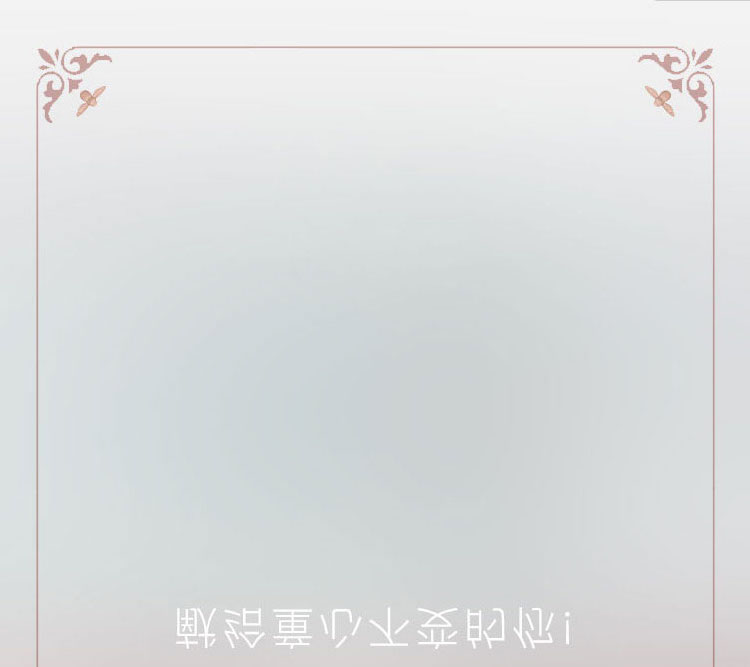
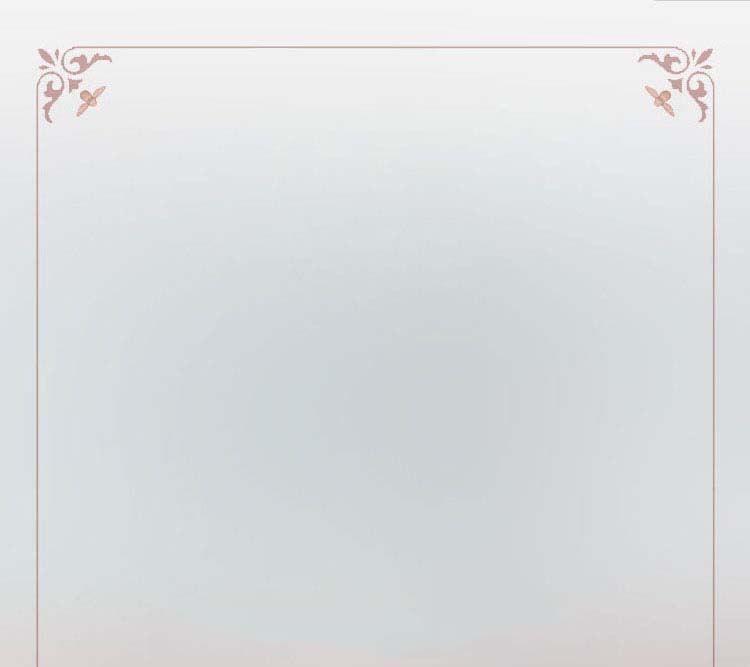
更新一个版本

Changed region(s): [[0.2147, 0.8996, 0.7667, 0.9895]]

diff --git a/src/components/loading.vue b/src/components/loading.vue
@@ -1,34 +1,41 @@
 <template>
-  <div id="load" class="loadPage">
+  <div id="load" class="loadPage" :class="{fly}">
     <div class="loadpage-container">
-      <div class="bg">
+      <div class="choose" style="background:url(./img/pr1/choose.jpg) center no-repeat;">
+        <div></div>
+      </div>
+      <div v-if="bgShow" class="bg">
         <div class="bg1-container">
-          <div class="bg1"></div>
+          <div class="bg1">
+            <em>妙趣横生的腕间花园</em>
+          </div>
         </div>
         <div class="bg1-container bg2">
           <div class="bg1">
             <div class="midd">
-              <div class="loadline">
-                <!-- 进渡条 -->
-                <div class="loading" v-if="!showBtn">
-                  <div class="light"><div :style="'width:'+Percentage+'%'"></div></div>
-                  <div class="loadbg homeImg" :style="'background:url(./img/FHome/loading.png) center no-repeat;background-size:auto 100%;'"></div>
-                  <div class="upFlower" :style="'background: url(./img/FHome/h1.png) center no-repeat;background-size:100% auto;'"></div>
-                </div>
-                <!-- 按钮 -->
-                <div class="button" @click="inPage" v-else>
-                  <em>定制你的OB圣诞贺卡</em><br><br>
-                  <span>&lt; START &gt;</span>
-                </div>
+              <em>献给童心不变的你！</em>
+            </div>
+            <div class="loadline">
+              <!-- 进渡条 -->
+              <div class="loading" v-if="!showBtn">
+                <div class="light"><div :style="'width:'+Percentage+'%'"></div></div>
+                <div class="loadbg homeImg" :style="'background:url(./img/FHome/loading.png) center no-repeat;background-size:auto 100%;'"></div>
+                <div class="upFlower" :style="'background: url(./img/FHome/h1.png) center no-repeat;background-size:100% auto;'"></div>
+              </div>
+              <!-- 按钮 -->
+              <div class="button" @click="inPage" v-else>
+                <em>定制你的OB圣诞贺卡</em><br><br>
+                <span>&lt; START &gt;</span>
               </div>
             </div>
           </div>
         </div>
       </div>
-      <div class="snow">
+      <div v-if="bgShow" class="snow">
         <div class="snowimg homeImg"></div>
       </div>
     </div>
+    <div class="bee"></div>
   </div>
 </template>
 <script>
@@ -43,6 +50,8 @@ export default {
       showBtn: false,
       homeImg: false,
       baseurl: '',
+      bgShow: 1,
+      fly: 0,
     }
   },
   computed: {
@@ -147,14 +156,18 @@ export default {
       //   },1000)
     },
     inPage() {
-      this.$parent.loading = false
-      clearInterval(window.times)
-      try {
-        this.$parent.audio.play()
-        this.$parent.Play = 1
-      } catch (e) {
-        1
-      }
+      this.fly = 1
+      setTimeout(() => {
+        this.bgShow = 0
+      }, 3000)
+      // this.$parent.loading = false
+      // clearInterval(window.times)
+      // try {
+      //   this.$parent.audio.play()
+      //   this.$parent.Play = 1
+      // } catch (e) {
+      //   1
+      // }
     },
     getLoadImg(arr) {
       var onloadarr = []
@@ -182,6 +195,13 @@ export default {
 }
 </script>
 <style lang="less" scoped>
+.choose {
+  position: absolute;
+  background-size: contain !important;
+  height: calc(100vw * 1.77777778);
+  width: 100%;
+  max-height: 100vh;
+}
 .loadPage {
   position: fixed;
   width: 100vw;
@@ -197,29 +217,63 @@ export default {
 .loadpage-container {
   height: calc(100vw * 1.7777777778);
   width: 100%;
+  max-height: 100vh;
 }
 .bg {
   height: 100%;
+  position: relative;
   .bg1-container {
     height: 50%;
   }
   .bg1 {
-    height: 50%;
+    height: 100%;
     overflow: hidden;
     background-size: 100vw !important;
+    display: flex;
+    justify-content: center;
+    align-items: flex-end;
+    // transform: scale(1.01);
+    em {
+      color: white;
+    }
   }
   .bg1 {
-    background: url("/img/pr1/bg1.jpg");
-    animation: pr1bg1 5s infinite cubic-bezier(1, 1, 0, 0);
+    background: url('/img/pr1/bg1.jpg');
   }
   .bg2 {
     transform: rotateX(180deg);
     .bg1 {
-      background: url("/img/pr1/bg2.jpg");
+      background: url('/img/pr1/bg2.jpg');
+      // transform: scale(1.01);
+      em {
+        padding-top: 1.5vh;
+        display: block;
+      }
     }
     .midd {
       transform: rotateX(180deg);
     }
+  }
+}
+.bee {
+  width: 8vw;
+  height: 16vw;
+  background: url('/img/pr1/bee.png') no-repeat;
+  background-size: contain;
+  position: absolute;
+  transform: translateX(100vw);
+}
+.fly {
+  .bee {
+    transition: 0.9s cubic-bezier(1, 1, 0, 0);
+    transform: translateX(-8vw);
+  }
+  .bg1 {
+    animation: pr1bg1 3s cubic-bezier(1, 1, 0, 0);
+  }
+  .snow {
+    opacity: 0;
+    transition: 3s;
   }
 }
 .loadbg {
@@ -263,7 +317,8 @@ export default {
   position: absolute;
   width: 100vw;
   z-index: 10;
-  bottom: 10vh;
+  top: 10vh;
+  transform: rotateX(180deg);
   .loading {
     position: relative;
     // overflow: hidden;
@@ -341,6 +396,7 @@ export default {
   height: 100%;
   position: absolute;
   top: 0;
+  pointer-events: none;
   .snowimg {
     height: 100%;
     background: url('/img/pr1/snow.png');
@@ -361,12 +417,12 @@ export default {
     width: 100%;
     height: 100%;
   }
-  80% {
-    width: 100%;
-    width: 0;
-    height: 50%;
-    border-bottom-right-radius: 100%;
-  }
+  // 80% {
+  //   width: 100%;
+  //   width: 0;
+  //   height: 50%;
+  //   border-bottom-right-radius: 100%;
+  // }
   100% {
     width: 0;
     height: 0;
@@ -384,12 +440,12 @@ export default {
     width: 100%;
     height: 100%;
   }
-  80% {
-    width: 100%;
-    width: 0;
-    height: 50%;
-    border-bottom-right-radius: 100%;
-  }
+  // 80% {
+  //   width: 100%;
+  //   width: 0;
+  //   height: 50%;
+  //   border-bottom-right-radius: 100%;
+  // }
   100% {
     width: 0;
     height: 0;

diff --git a/vue.config.js b/vue.config.js
@@ -1,0 +1,11 @@
+module.exports = {
+  chainWebpack: config => {
+    if (process.env.NODE_ENV === 'development') {
+      config.output.filename('[name].[hash].js').end()
+    }
+  },
+  productionSourceMap: false,
+  devServer: {
+    port: 8888,
+  },
+}
